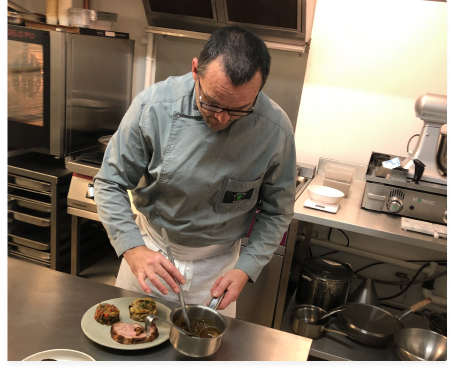
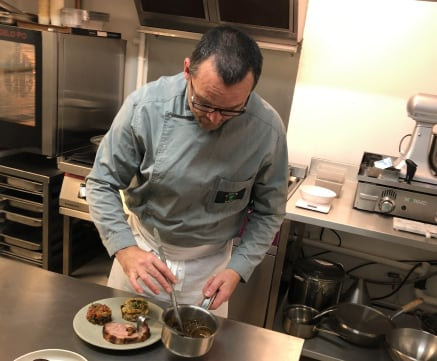
update

diff --git a/pages/selection-du-jour.js b/pages/selection-du-jour.js
@@ -42,7 +42,7 @@ const SelectionDuJour = ({allDailyDishes}) => {
                     </div>
                     <div
                         className={`order-2-ns flex justify-end order-2 mb4 mb0-ns w-90 w-50-ns`}>
-                        <Image src={"/images/photo-chef.jpg"} width={541} height={361} alt="Notre Chef Pascal ! "/>
+                        <Image src={"/images/photo-chef.jpg"} width={437} height={361} alt="Notre Chef Pascal ! "/>
                     </div>
                 </div>
             </article>

diff --git a/components/layout.js b/components/layout.js
@@ -11,7 +11,7 @@ export default function Layout({preview, children}) {
                 <Header/>
                 <main>{children}</main>
                 <Footer/>
-                <Link href={'/mention-legales'}><a className='link dark-gray'> mention légales</a></Link>
+                <Link href={'/mention-legales'}><a className='link dark-gray'>Mentions légales</a></Link>
             </div>
         </>
     )
